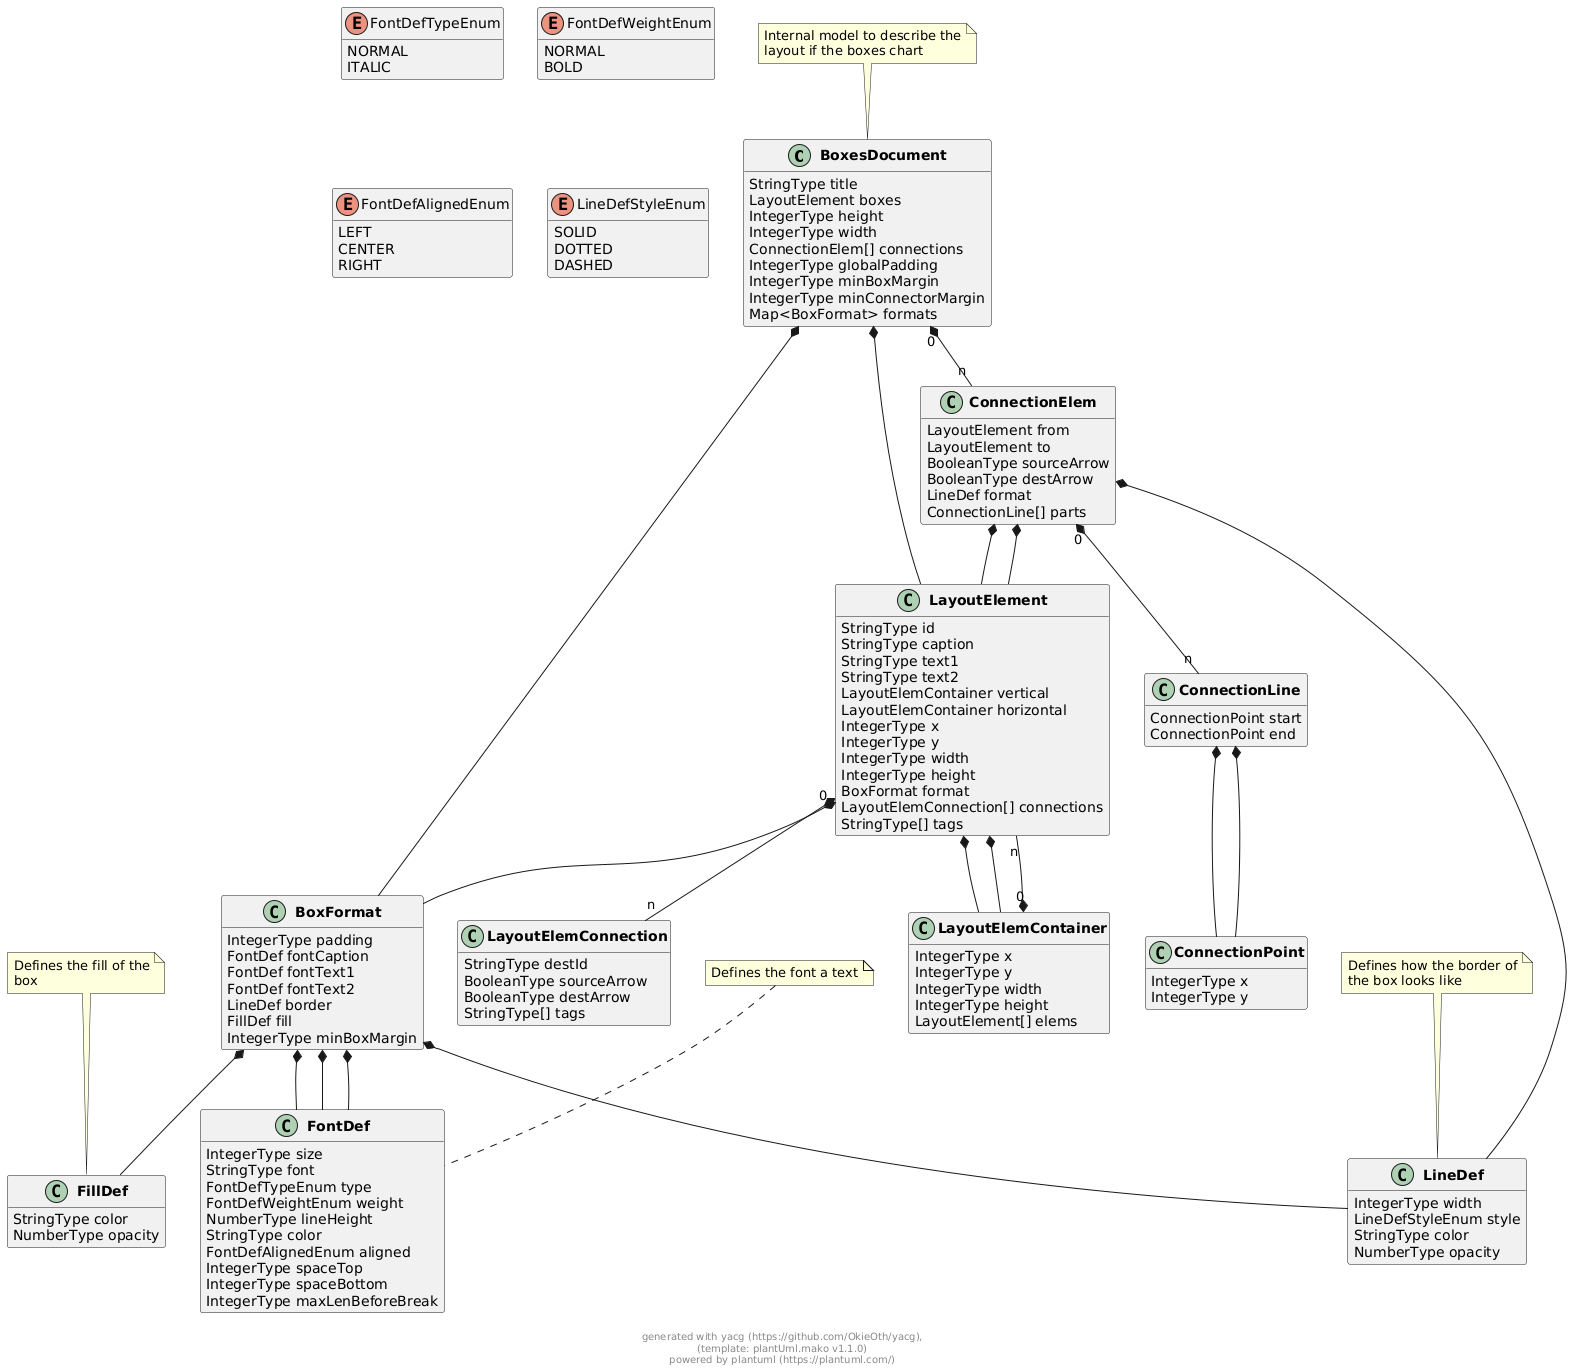
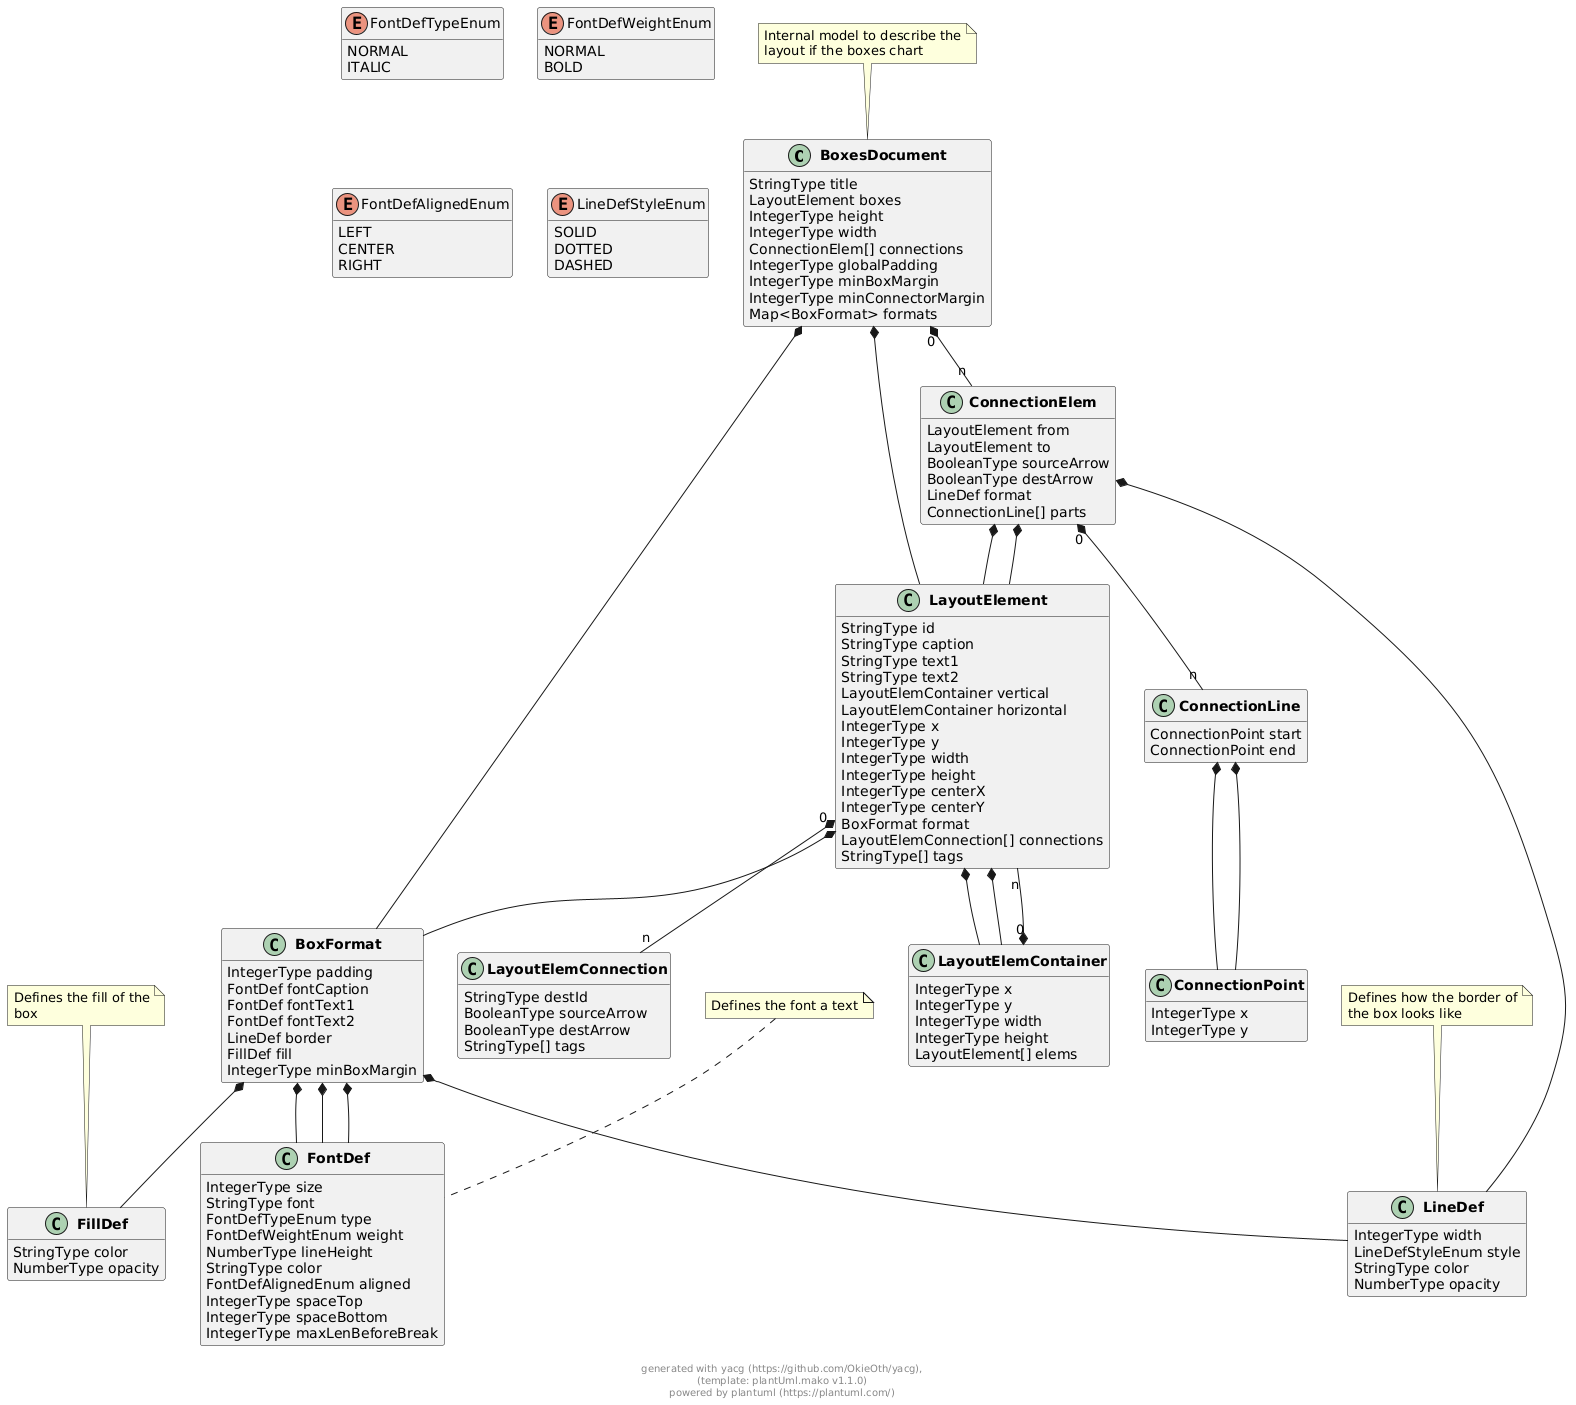
additional function for LayoutElement

diff --git a/pkg/types/layout_test.go b/pkg/types/layout_test.go
@@ -115,6 +115,10 @@ func TestInitDimensions(t *testing.T) {
 func checkLayoutElement(t *testing.T, le *types.LayoutElement, initX, initY int) {
 	require.GreaterOrEqual(t, le.X, initX)
 	require.GreaterOrEqual(t, le.Y, initY)
+	require.Greater(t, le.CenterX, 0)
+	require.Greater(t, le.CenterY, 0)
+	require.Equal(t, le.CenterX, le.X+(le.Width/2))
+	require.Equal(t, le.CenterY, le.Y+(le.Height/2))
 	if le.Vertical != nil {
 		require.GreaterOrEqual(t, le.Vertical.X, le.X)
 		require.GreaterOrEqual(t, le.Vertical.Y, le.Y)
@@ -133,24 +137,19 @@ func checkLayoutElement(t *testing.T, le *types.LayoutElement, initX, initY int)
 
 func TestCenteredCoordinates(t *testing.T) {
 	tests := []struct {
-		inputFile  string
-		outputFile string
+		inputFile string
 	}{
 		{
-			inputFile:  "../../resources/examples/simple_diamond.yaml",
-			outputFile: "../../temp/TestSimpleSvg_diamond.svg",
+			inputFile: "../../resources/examples/simple_diamond.yaml",
 		},
 		{
-			inputFile:  "../../resources/examples/horizontal_diamond.yaml",
-			outputFile: "../../temp/TestSimpleSvg_hdiamond.svg",
+			inputFile: "../../resources/examples/horizontal_diamond.yaml",
 		},
 		{
-			inputFile:  "../../resources/examples/complex_vertical.yaml",
-			outputFile: "../../temp/TestSimpleSvg_vcomplex.svg",
+			inputFile: "../../resources/examples/complex_vertical.yaml",
 		},
 		{
-			inputFile:  "../../resources/examples/complex_horizontal.yaml",
-			outputFile: "../../temp/TestSimpleSvg_hcomplex.svg",
+			inputFile: "../../resources/examples/complex_horizontal.yaml",
 		},
 	}
 	dc := NewDummyDimensionCalculator(100, 50)
@@ -160,6 +159,64 @@ func TestCenteredCoordinates(t *testing.T) {
 		doc, err := boxesimpl.InitialLayoutBoxes(b, dc)
 		require.Nil(t, err)
 		checkLayoutElement(t, &doc.Boxes, 0, 0)
+	}
+
+}
+
+func TestAreOnTheSameVerticalLevel(t *testing.T) {
+	tests := []struct {
+		inputFile string
+		checkFunc func(t *testing.T, doc *types.BoxesDocument)
+	}{
+		{
+			inputFile: "../../resources/examples/simple_diamond.yaml",
+			checkFunc: func(t *testing.T, doc *types.BoxesDocument) {
+				require.NotNil(t, doc)
+				e1 := doc.Boxes.Vertical.Elems[0]
+				e2 := doc.Boxes.Vertical.Elems[1].Horizontal.Elems[0]
+				e3 := doc.Boxes.Vertical.Elems[1].Horizontal.Elems[1]
+				e4 := doc.Boxes.Vertical.Elems[1].Horizontal.Elems[2]
+				e5 := doc.Boxes.Vertical.Elems[2]
+				require.False(t, e1.AreOnTheSameVerticalLevel(&e2))
+				require.False(t, e1.AreOnTheSameVerticalLevel(&e3))
+				require.False(t, e1.AreOnTheSameVerticalLevel(&e4))
+				require.False(t, e1.AreOnTheSameVerticalLevel(&e5))
+
+				require.True(t, e2.AreOnTheSameVerticalLevel(&e3))
+				require.True(t, e2.AreOnTheSameVerticalLevel(&e4))
+				require.True(t, e3.AreOnTheSameVerticalLevel(&e4))
+				require.True(t, e4.AreOnTheSameVerticalLevel(&e2))
+				require.True(t, e4.AreOnTheSameVerticalLevel(&e3))
+				require.False(t, e5.AreOnTheSameVerticalLevel(&e2))
+				require.False(t, e5.AreOnTheSameVerticalLevel(&e3))
+				require.False(t, e5.AreOnTheSameVerticalLevel(&e4))
+			},
+		},
+		{
+			inputFile: "../../resources/examples/horizontal_diamond.yaml",
+			checkFunc: func(t *testing.T, doc *types.BoxesDocument) {
+				require.NotNil(t, doc)
+				e1 := doc.Boxes.Horizontal.Elems[0]
+				e2 := doc.Boxes.Horizontal.Elems[1].Vertical.Elems[0]
+				e3 := doc.Boxes.Horizontal.Elems[1].Vertical.Elems[1]
+				e4 := doc.Boxes.Horizontal.Elems[1].Vertical.Elems[2]
+				e5 := doc.Boxes.Horizontal.Elems[2]
+				require.False(t, e1.AreOnTheSameVerticalLevel(&e2))
+				require.True(t, e1.AreOnTheSameVerticalLevel(&e3))
+				require.True(t, e3.AreOnTheSameVerticalLevel(&e1))
+				require.False(t, e1.AreOnTheSameVerticalLevel(&e4))
+				require.False(t, e4.AreOnTheSameVerticalLevel(&e1))
+				require.True(t, e3.AreOnTheSameVerticalLevel(&e5))
+			},
+		},
+	}
+	dc := NewDummyDimensionCalculator(100, 50)
+	for _, test := range tests {
+		b, err := types.LoadInputFromFile[types.Boxes](test.inputFile)
+		require.Nil(t, err)
+		doc, err := boxesimpl.InitialLayoutBoxes(b, dc)
+		require.Nil(t, err)
+		test.checkFunc(t, doc)
 	}
 
 }

diff --git a/pkg/types/connect.go b/pkg/types/connect.go
@@ -1,5 +1,119 @@
 package types
 
-func (doc *BoxesDocument) ConnectBoxes() error {
-	return nil // TODO
+import (
+	"fmt"
+)
+
+func (doc *BoxesDocument) findLayoutElementById(id string, startElem *LayoutElement) (*LayoutElement, bool) {
+	if startElem.Id == id {
+		return startElem, true
+	}
+	for _, elem := range startElem.Vertical.Elems {
+		if elem.Id == id {
+			return &elem, true
+		}
+		if e, found := doc.findLayoutElementById(id, &elem); found {
+			return e, true
+		}
+	}
+	for _, elem := range startElem.Horizontal.Elems {
+		if elem.Id == id {
+			return &elem, true
+		}
+		if e, found := doc.findLayoutElementById(id, &elem); found {
+			return e, true
+		}
+	}
+	return nil, false
+}
+
+func (doc *BoxesDocument) getLeftNeighbor(startElem, currentElem, currentNeighbor *LayoutElement) *LayoutElement {
+	if currentElem == nil {
+		currentNeighbor = &doc.Boxes
+	}
+
+	return nil
+}
+
+func (doc *BoxesDocument) elementsAreHorizontalNeighbors(startElem, destElem *LayoutElement) bool {
+	// leftNeighbor := doc.getLeftNeighbor(startElem, nil)
+	// rightNeighbor := doc.getRightNeighbor(startElem, nil)
+	// return leftNeighbor == destElem || rightNeighbor == destElem
+	return false // TODO
+
+}
+
+func (doc *BoxesDocument) getConnectionParts(alreadyCollectedParts []ConnectionLine, startElem, destElem *LayoutElement) []ConnectionLine {
+	if ((startElem.CenterY > destElem.Y) && (startElem.CenterY < destElem.Y+destElem.Height)) ||
+		((destElem.CenterY > startElem.Y) && (destElem.CenterY < startElem.Y+startElem.Height)) {
+		// the elements are on the same horizontal level
+		if doc.elementsAreHorizontalNeighbors(startElem, destElem) {
+			// TODO connect horizontally
+			return alreadyCollectedParts
+		}
+	}
+	if startElem.CenterY < destElem.CenterY {
+		// connection from top to bottom
+		if startElem.CenterX <= destElem.CenterX {
+			// connection from left/top to right/down ...
+			// connector starts at the bottom of the start element
+			// TODO
+
+		} else {
+			// connection from right/top to left/down
+			// TODO
+		}
+	} else {
+		// connection from bottom to top
+		if startElem.CenterX <= destElem.CenterX {
+			// connection from left/down to right/top
+			// TODO
+		} else {
+			// connection from right/down to left/top
+			// TODO
+		}
+	}
+	return alreadyCollectedParts
+}
+
+func (doc *BoxesDocument) connectTwoElems(start, destElem *LayoutElement, lec *LayoutElemConnection) ConnectionElem {
+	var ret ConnectionElem
+	ret.DestArrow = &lec.DestArrow
+	ret.SourceArrow = &lec.SourceArrow
+	ret.Parts = doc.getConnectionParts(make([]ConnectionLine, 0), start, destElem)
+	return ret
+}
+
+func (doc *BoxesDocument) doConnect(elem *LayoutElement) {
+	for _, conn := range elem.Connections {
+		destElem, found := doc.findLayoutElementById(conn.DestId, elem)
+		if !found {
+			fmt.Println("Couldn't find destId: ", conn.DestId)
+			continue
+		}
+		if destElem == elem {
+			fmt.Println("Connection to self are not allowed and will be ignored: ", conn.DestId)
+			continue
+		}
+		connectionElem := doc.connectTwoElems(elem, destElem, &conn)
+		doc.Connections = append(doc.Connections, connectionElem)
+	}
+}
+
+func (doc *BoxesDocument) connectLayoutElem(le *LayoutElement) {
+	doc.doConnect(le)
+	doc.connectContainer(le.Vertical)
+	doc.connectContainer(le.Horizontal)
+}
+
+func (doc *BoxesDocument) connectContainer(cont *LayoutElemContainer) {
+	if cont != nil {
+		for _, elem := range cont.Elems {
+			doc.connectLayoutElem(&elem)
+		}
+	}
+}
+
+func (doc *BoxesDocument) ConnectBoxes() {
+	doc.connectLayoutElem(&doc.Boxes)
 }

diff --git a/pkg/types/layout.go b/pkg/types/layout.go
@@ -76,43 +76,10 @@ func (l *LayoutElement) centerVerticalElems() {
 	}
 }
 
-// func (l *LayoutElement) centerVerticalElems() {
-// 	if l.Vertical != nil {
-// 		cont := l.Vertical
-// 		contYOffset := (l.Height - cont.Height) / 2
-// 		contXOffset := (l.Width - cont.Width) / 2
-// 		cont.Y = l.Y + contYOffset
-// 		cont.X = l.X + contXOffset
-// 		for i := 0; i < len(cont.Elems); i++ {
-// 			sub := &cont.Elems[i]
-// 			offsetY := ((cont.Height - sub.Height) / 2)
-// 			sub.incrementY(offsetY)
-// 			offsetX := contXOffset + ((cont.Width - sub.Width) / 2)
-// 			sub.incrementX(offsetX)
-// 			sub.centerVerticalElems()
-// 			if sub.Horizontal != nil && len(sub.Horizontal.Elems) == 1 {
-// 				sub.centerHorizontalElems()
-// 			}
-// 		}
-// 	}
-// }
-
-// func (l *LayoutElement) centerLayoutElemContainer(cont *LayoutElemContainer) {
-// 	if cont != nil {
-// 		contYOffset := (l.Height - cont.Height) / 2
-// 		contXOffset := (l.Width - cont.Width) / 2
-// 		cont.Y = l.Y + contYOffset
-// 		cont.X = l.X + contXOffset
-// 		for i := 0; i < len(cont.Elems); i++ {
-// 			sub := &cont.Elems[i]
-// 			offsetY := ((cont.Height - sub.Height) / 2)
-// 			sub.incrementY(offsetY)
-// 			offsetX := contXOffset + ((cont.Width - sub.Width) / 2)
-// 			sub.incrementX(offsetX)
-// 			sub.Center()
-// 		}
-// 	}
-// }
+func (l *LayoutElement) AreOnTheSameVerticalLevel(otherElem *LayoutElement) bool {
+	return ((l.CenterY > otherElem.Y) && (l.CenterY < otherElem.Y+otherElem.Height)) ||
+		((otherElem.CenterY > l.Y) && (otherElem.CenterY < l.Y+l.Height))
+}
 
 func (l *LayoutElement) initVertical(c TextDimensionCalculator, yInnerOffset, defaultPadding, defaultBoxMargin int) {
 	if l.Vertical != nil && len(l.Vertical.Elems) > 0 {
@@ -238,6 +205,8 @@ func (l *LayoutElement) InitDimensions(c TextDimensionCalculator, defaultPadding
 }
 
 func (l *LayoutElement) Center() {
+	l.CenterX = l.X + (l.Width / 2)
+	l.CenterY = l.Y + (l.Height / 2)
 	l.centerHorizontalElems()
 	l.centerVerticalElems()
 }

diff --git a/pkg/types/boxesdoc.go b/pkg/types/boxesdoc.go
@@ -80,6 +80,12 @@ type LayoutElement struct {
     // Height of the element
     Height int  `yaml:"height"`
 
+    // X position of the center of the element
+    CenterX int  `yaml:"centerX"`
+
+    // X position of the center of the element
+    CenterY int  `yaml:"centerY"`
+
     Format *BoxFormat  `yaml:"format,omitempty"`
 
     Connections []LayoutElemConnection  `yaml:"connections,omitempty"`
